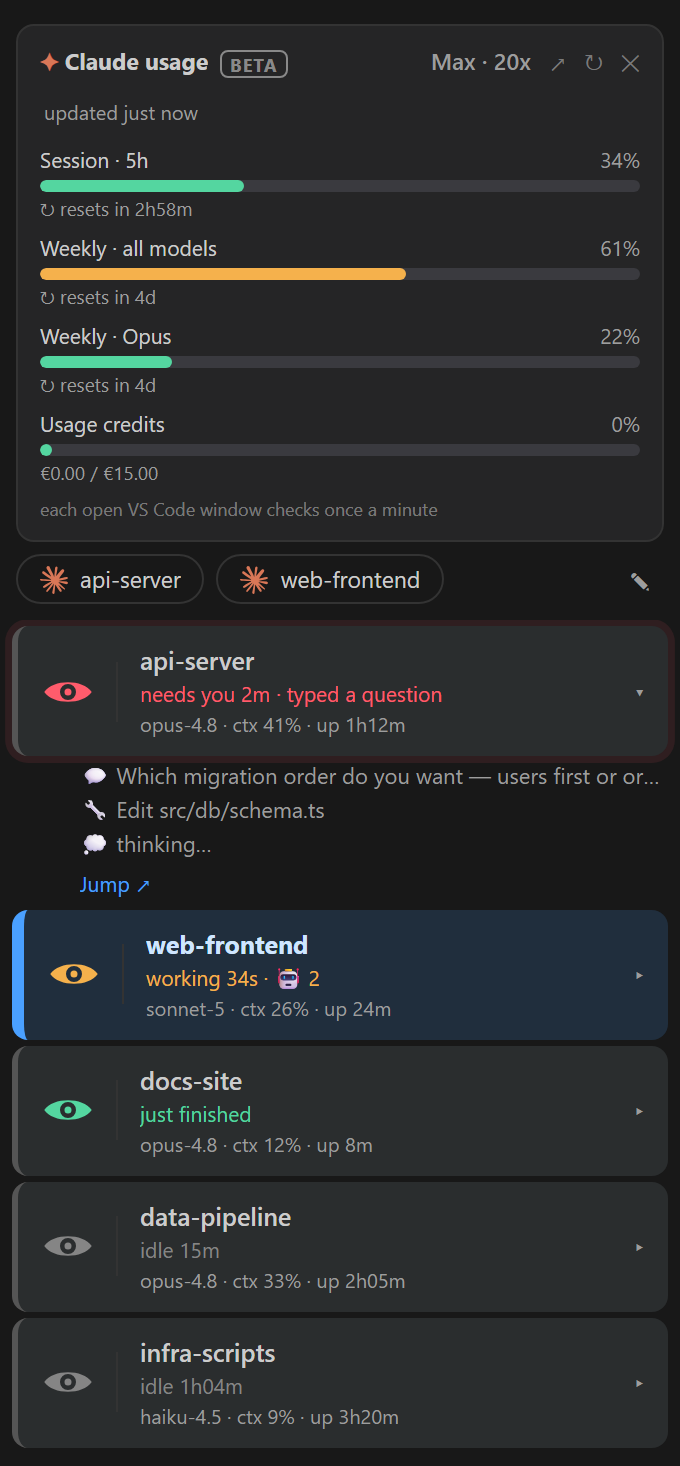
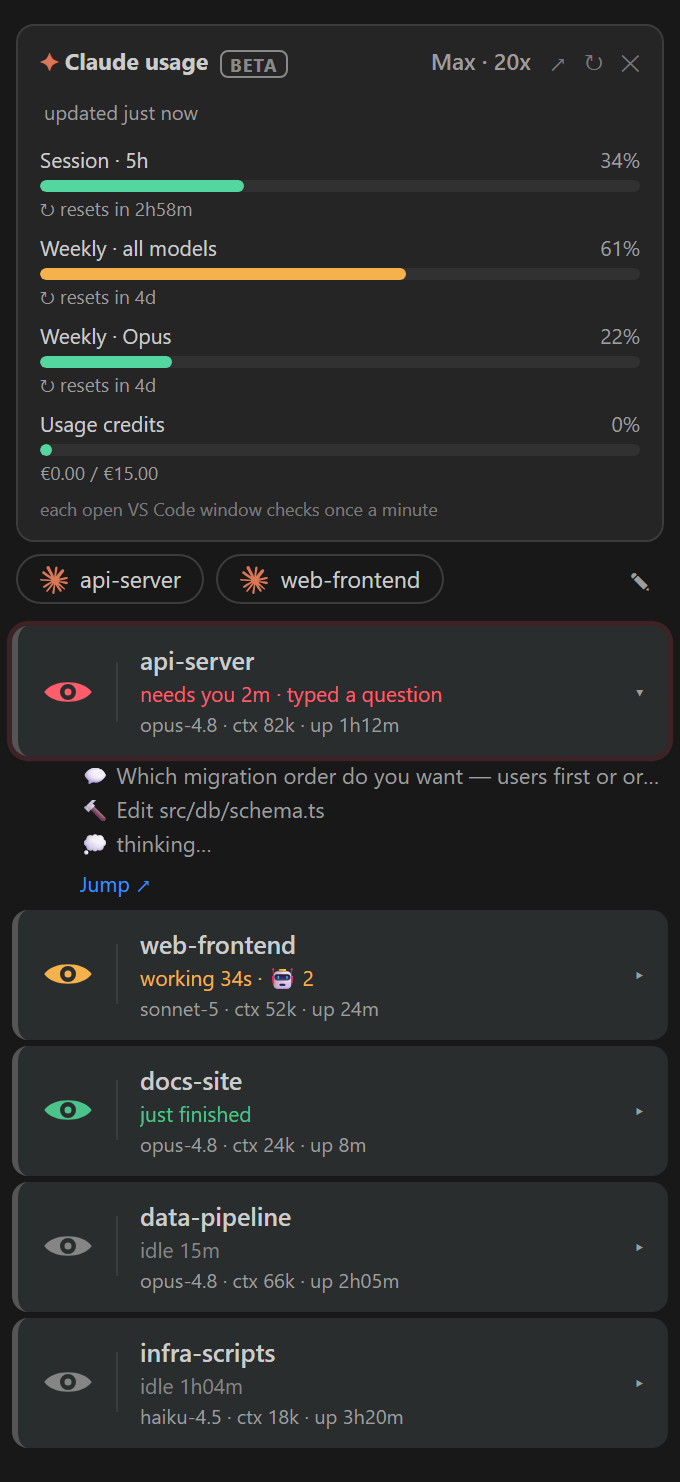
3.1.19: usage card works on macOS; ctx always shows real tokens
- The usage card read only ~/.claude/.credentials.json, which exists on
  Windows/Linux but not on macOS, where Claude Code stores the login in the
  encrypted Keychain - so every Mac user saw a permanent 'No Claude login
  found'. The Keychain (item 'Claude Code-credentials') is now read first on
  darwin, the file stays as the fallback everywhere (it is also the documented
  SSH/container workaround), and CLAUDE_CONFIG_DIR is honored. Keychain reads
  are cached 5 minutes; refresh and a rejected token both force a fresh read.
- Honest no-login wording on a Mac (names the Keychain).
- The ctx readout is always the real token amount, never a percent: the percent
  assumed a 200k window, and a 1M-context session at 138k rendered as '69%'.
- dev-harness: new ovl-creds-test.js (9 cases), stubs updated for the
  onDidChangeConfiguration listener, mac-wording render cases.
- Listing screenshot refreshed (absolute ctx format).

diff --git a/extension.js b/extension.js
@@ -453,7 +453,7 @@ function attachAndPost(agents, now, tdata) {
     s.sub = tt.statusText;          // .st renders sub verbatim - statusText replaces it
     s.metaText = s.bg ? ["background", tt.metaText].filter(Boolean).join(" · ") : tt.metaText;
     s.tooltipLines = tt.tooltipLines;
-    // the satellite screen renders one line per session
+    // the desk screen renders one line per session
     s.metaLine = tt.metaText ? tt.statusText + " · " + tt.metaText : tt.statusText;
   }
   // Re-sort now that `acked` is known (buildSessions can't see it): a seen-but-
@@ -818,12 +818,49 @@ function restoreUsageOn() {
   return usageEnabled() || usageEverEnabled();
 }
 
-// Read only the fields we need from the credentials file; never logged/echoed.
-function readClaudeCreds() {
+// Read only the fields we need from the credentials; never logged/echoed.
+// Where Claude Code keeps the login differs by OS (per the official docs):
+// macOS -> the encrypted Keychain (item "Claude Code-credentials"); Windows/Linux ->
+// .claude/.credentials.json in the home dir (or under CLAUDE_CONFIG_DIR when set).
+// So on a Mac the file normally does NOT exist and reading only it showed a permanent
+// "No Claude login found" to every macOS user (reported 2026-08-03). The Keychain is
+// tried first on darwin; the file stays as the fallback everywhere (it is also the
+// documented SSH/container workaround on Macs).
+function parseCreds(raw) {
+  const j = JSON.parse(raw);
+  const o = j.claudeAiOauth || j || {};   // accept wrapped ({claudeAiOauth:{...}}) and bare shapes
+  return { token: o.accessToken, subscriptionType: o.subscriptionType, rateLimitTier: o.rateLimitTier };
+}
+function readCredsFile() {
   try {
-    const o = JSON.parse(fs.readFileSync(path.join(os.homedir(), ".claude", ".credentials.json"), "utf8")).claudeAiOauth || {};
-    return { token: o.accessToken, subscriptionType: o.subscriptionType, rateLimitTier: o.rateLimitTier };
-  } catch (_) { return {}; }
+    const dir = process.env.CLAUDE_CONFIG_DIR || path.join(os.homedir(), ".claude");
+    const c = parseCreds(fs.readFileSync(path.join(dir, ".credentials.json"), "utf8"));
+    return c.token ? c : null;
+  } catch (_) { return null; }
+}
+// Keychain reads spawn a `security` process, so the result is cached; a manual ↻ and a
+// rejected token (401) both bust the cache so a fresh login is picked up immediately.
+const KC_CACHE_MS = 300000;
+let _kcCreds = { at: 0, val: null };
+function bustCredsCache() { _kcCreds = { at: 0, val: null }; }
+function readCredsKeychain() {
+  return new Promise((resolve) => {
+    try {
+      cp.execFile("security", ["find-generic-password", "-s", "Claude Code-credentials", "-w"],
+        { encoding: "utf8", timeout: 4000, windowsHide: true }, (err, out) => {
+          if (err || !out) return resolve(null);
+          try { const c = parseCreds(out.trim()); resolve(c.token ? c : null); } catch (_) { resolve(null); }
+        });
+    } catch (_) { resolve(null); }
+  });
+}
+async function readClaudeCreds() {
+  if (process.platform === "darwin") {
+    if (_kcCreds.val && Date.now() - _kcCreds.at < KC_CACHE_MS) return _kcCreds.val;
+    const kc = await readCredsKeychain();
+    if (kc) { _kcCreds = { at: Date.now(), val: kc }; return kc; }
+  }
+  return readCredsFile() || {};
 }
 function httpsGetJson(url, headers) {
   return new Promise((resolve) => {
@@ -857,7 +894,7 @@ function nextUsageBackoff(headers) {
 }
 async function fetchUsage() {
   if (!_usageOn) { _usage = null; return; }
-  const c = readClaudeCreds();
+  const c = await readClaudeCreds();
   if (!c.token) { _usageState = "nologin"; postUsage(); scheduleNextUsage(USAGE_POLL_MS); return; }
   _usageState = _usage ? "checking" : "loading";   // brief feedback; keeps last-good rows visible
   postUsage();
@@ -879,6 +916,7 @@ async function fetchUsage() {
     if (_memento) { try { _memento.update(USAGE_LASTGOOD_KEY, { u, at: now }); _memento.update(USAGE_BAN_KEY, 0); } catch (_) {} }
     scheduleNextUsage(USAGE_POLL_MS);
   } else if (r.status === 401) {
+    bustCredsCache();                 // token rejected — re-read the Keychain next attempt (a re-login lands there)
     _usageState = "login";            // token invalid — last-good (if any) is shown greyed with this note
     scheduleNextUsage(USAGE_POLL_MS);
   } else {
@@ -1062,6 +1100,7 @@ class OverlordViewProvider {
         this.postUsage();
       } else if (msg.type === "usageRefresh") {
         _usageBackoff = 0;   // manual refresh: drop any backoff and check now
+        bustCredsCache();    // ...and re-read the login from scratch (Keychain included)
         fetchUsage();
       } else if (msg.type === "usageOpenSettings") {
         try { vscode.env.openExternal(vscode.Uri.parse("https://claude.ai/new#settings/usage")); } catch (_) {}
@@ -1115,7 +1154,7 @@ class OverlordViewProvider {
     if (this._view) this._view.webview.postMessage({ type: "sessions", sessions, error: error || null, note: note || null, launchers: launchersForWebview() });
   }
   postUsage() {
-    const meta = { state: _usageState, fetchedAt: _usageFetchedAt, nextAt: _usageNextAt, err: _usageErr };
+    const meta = { state: _usageState, fetchedAt: _usageFetchedAt, nextAt: _usageNextAt, err: _usageErr, mac: process.platform === "darwin" };
     // Suppress the invite if the user declined at THIS version, or ever enabled it.
     const hideInvite = usageDismissed() || usageEverEnabled();
     if (this._view) this._view.webview.postMessage({ type: "usage", usage: _usage, enabled: _usageOn, dismissed: hideInvite, meta });
@@ -1459,7 +1498,10 @@ class OverlordViewProvider {
     var ustate = meta && meta.state;
     var haveRows = usage && usage.rows && usage.rows.length;
     if(ustate==="nologin"){
-      var nn0=document.createElement("div"); nn0.className="unote"; nn0.textContent="No Claude login found — run any Claude Code session first.";
+      var nn0=document.createElement("div"); nn0.className="unote";
+      nn0.textContent=(meta&&meta.mac)
+        ? "No Claude login found — checked the macOS Keychain and ~/.claude. Log in in any Claude Code session, then hit ↻."
+        : "No Claude login found — run any Claude Code session first.";
       card.appendChild(nn0); usageEl.appendChild(card); return;
     }
     if(!haveRows){                                   // no numbers yet — first load, or failed before any success
@@ -1605,4 +1647,4 @@ function activate(context) {
 
 function deactivate() { if (timer) clearInterval(timer); if (_usageFetchTimer) clearTimeout(_usageFetchTimer); if (_usageTickTimer) clearInterval(_usageTickTimer); try { D.stop(); } catch (_) {} }
 
-module.exports = { activate, deactivate };
+module.exports = { activate, deactivate, _creds: { readClaudeCreds, parseCreds, bustCredsCache } };  // _creds: dev-harness only

diff --git a/dev-harness/ovl-creds-test.js b/dev-harness/ovl-creds-test.js
@@ -1,0 +1,81 @@
+// Proves the credential-source logic (3.1.19): macOS Keychain first with file
+// fallback, both Keychain JSON shapes accepted, CLAUDE_CONFIG_DIR honored, cache
+// busted by bustCredsCache(). Runs on any OS by faking process.platform and by
+// stubbing child_process.execFile on the SHARED module object (extension.js holds
+// a reference to the same object, so the patch reaches it).
+const Module = require('module'); const origLoad = Module._load;
+const path = require('path'); const fs = require('fs'); const os = require('os');
+
+// vscode stub (minimal — we never activate, only require the module)
+const vscode = { workspace:{ getConfiguration(){ return { get:()=>undefined }; } } };
+Module._load = function(request){ if(request==='vscode') return vscode; return origLoad.apply(this, arguments); };
+
+// Stub execFile BEFORE loading the extension is not needed (it captures the module
+// object, not the function) — but patch before first use to be safe.
+const cp = require('child_process');
+const realExecFile = cp.execFile;
+let secOut = null;      // what the fake `security` prints (null => simulate failure)
+let secCalls = 0;
+cp.execFile = function(cmd, args, opts, cb){
+  if(cmd === 'security'){ secCalls++; return setImmediate(()=> cb(secOut===null ? new Error('not found') : null, secOut)); }
+  return realExecFile.apply(this, arguments);
+};
+
+const ext = require(path.join(__dirname, '..', 'extension.js'));
+const { readClaudeCreds, parseCreds, bustCredsCache } = ext._creds;
+
+let pass=0, fail=0;
+function ok(cond, name){ if(cond){pass++;} else {fail++; console.log('FAIL:', name);} }
+
+// A scratch config dir with a known credentials file, used via CLAUDE_CONFIG_DIR
+const tmp = fs.mkdtempSync(path.join(os.tmpdir(), 'ovl-creds-'));
+fs.writeFileSync(path.join(tmp, '.credentials.json'),
+  JSON.stringify({ claudeAiOauth: { accessToken:'FILE_TOKEN', subscriptionType:'max', rateLimitTier:'t' } }));
+
+const realPlatform = process.platform;
+function setPlatform(p){ Object.defineProperty(process, 'platform', { value:p }); }
+
+(async()=>{
+  // 1-2. parseCreds accepts both shapes
+  ok(parseCreds('{"claudeAiOauth":{"accessToken":"A","subscriptionType":"max"}}').token==='A', '1 wrapped shape');
+  ok(parseCreds('{"accessToken":"B","subscriptionType":"max"}').token==='B', '2 bare shape');
+
+  // 3. darwin: keychain wins (wrapped shape)
+  setPlatform('darwin'); bustCredsCache(); secOut='{"claudeAiOauth":{"accessToken":"KC1"}}'; secCalls=0;
+  ok((await readClaudeCreds()).token==='KC1', '3 keychain wrapped');
+
+  // 4. cache: second read does NOT spawn security again
+  const before=secCalls; await readClaudeCreds();
+  ok(secCalls===before, '4 cached (no re-exec)');
+
+  // 5. bustCredsCache forces a re-exec and picks up the new value (bare shape)
+  bustCredsCache(); secOut='{"accessToken":"KC2"}';
+  ok((await readClaudeCreds()).token==='KC2' && secCalls===before+1, '5 bust + bare shape');
+
+  // 6. darwin + keychain failure -> file fallback via CLAUDE_CONFIG_DIR
+  bustCredsCache(); secOut=null; process.env.CLAUDE_CONFIG_DIR=tmp;
+  ok((await readClaudeCreds()).token==='FILE_TOKEN', '6 darwin fallback to file');
+
+  // 7. keychain output that is garbage -> file fallback, no throw
+  bustCredsCache(); secOut='not json at all';
+  ok((await readClaudeCreds()).token==='FILE_TOKEN', '7 garbage keychain -> file');
+
+  // 8. non-darwin: security never consulted, file only
+  setPlatform('linux'); bustCredsCache(); secOut='{"accessToken":"KC3"}'; secCalls=0;
+  const r8=await readClaudeCreds();
+  ok(r8.token==='FILE_TOKEN' && secCalls===0, '8 non-darwin skips keychain');
+
+  // 9. nothing anywhere -> {} (the nologin state), never a throw
+  delete process.env.CLAUDE_CONFIG_DIR;
+  // point HOME at an empty dir so the real ~/.claude file (if any) is not read
+  const empty = fs.mkdtempSync(path.join(os.tmpdir(), 'ovl-empty-'));
+  process.env.CLAUDE_CONFIG_DIR = empty;
+  bustCredsCache();
+  const r9=await readClaudeCreds();
+  ok(r9 && !r9.token, '9 no creds anywhere -> empty object');
+
+  setPlatform(realPlatform);
+  fs.rmSync(tmp,{recursive:true,force:true}); fs.rmSync(empty,{recursive:true,force:true});
+  console.log(`creds: ${pass} passed, ${fail} failed`);
+  process.exit(fail?1:0);
+})();

diff --git a/test-agents.js b/test-agents.js
@@ -484,13 +484,15 @@ t("statusText: segments without elapsed still lead with state word", () => {
   assert.strictEqual(r.statusText, "working");
   assert.strictEqual(r.metaText, "fable-5");
 });
-t("metaText: ctx% + uptime; over-window shows real used amount", () => {
+t("metaText: ctx always absolute (a % would need the true window, unknowable for 1M models)", () => {
   const r = A.telemetryText(sess("working", { startedAt: NOW - (3 * 60 + 12) * 60000 }), tele({ ctxTokens: 124000 }), NOW);
-  assert.strictEqual(r.metaText, "ctx 62% · up 3h12m");
+  assert.strictEqual(r.metaText, "ctx 124k · up 3h12m");
   const c = A.telemetryText(sess("working"), tele({ ctxTokens: 247000 }), NOW);
   assert.strictEqual(c.metaText, "ctx 247k");
   const tt = A.telemetryText(sess("working"), tele({ ctxTokens: 247000 }), NOW);
   assert(tt.tooltipLines.some((l) => l === "context: 247k tokens used"));
+  const small = A.telemetryText(sess("working"), tele({ ctxTokens: 124000 }), NOW);
+  assert(small.tooltipLines.some((l) => l === "context: 124k tokens used"));
 });
 t("metaText: uptime alone works without transcript", () => {
   const r = A.telemetryText(sess("idle", { startedAt: NOW - 60000 }), null, NOW);
@@ -503,7 +505,7 @@ t("tooltipLines include dir when cwd known", () => {
 t("tooltipLines are static (model id, tokens, agents, started)", () => {
   const r = A.telemetryText(sess("working", { startedAt: NOW - 1000 }), tele({ model: "claude-fable-5", ctxTokens: 124000, agentsRunning: 1 }), NOW);
   assert(r.tooltipLines.some((l) => l.includes("claude-fable-5")));
-  assert(r.tooltipLines.some((l) => l.includes("124k/200k")));
+  assert(r.tooltipLines.some((l) => l === "context: 124k tokens used"));   // no invented /200k denominator (3.1.19)
   assert(r.tooltipLines.some((l) => l.includes("subagents: 1")));
   assert(r.tooltipLines.some((l) => l.startsWith("started: ")));
   assert(!r.tooltipLines.some((l) => l.includes("up ")));   // no ticking uptime in tooltip

diff --git a/agents.js b/agents.js
@@ -607,23 +607,18 @@ function telemetryText(session, tele, nowMs) {
   if (folder) metaSegs.push(folder);
   const mb = modelBadge(t.model);
   if (mb) metaSegs.push(mb);
-  // Over the nominal window (cache-read counts can exceed 200k after context
-  // editing/compaction): a percentage would lie, so show the real used amount.
-  if (t.ctxTokens != null) {
-    metaSegs.push(t.ctxTokens > CTX_WINDOW
-      ? "ctx " + Math.round(t.ctxTokens / 1000) + "k"
-      : "ctx " + Math.round((t.ctxTokens / CTX_WINDOW) * 100) + "%");
-  }
+  // Always the real used amount ("ctx 138k"), never a percent. A percent needs
+  // the session's TRUE window, which is not knowable here: a 1M-context model
+  // reports the same shortened name as the 200k one, so 138k rendered as "69%"
+  // of an assumed 200k window read as nearly-full on a session at ~14% (2026-08-03).
+  if (t.ctxTokens) metaSegs.push("ctx " + fmtTokens(t.ctxTokens));
   if (session.startedAt != null) { const up = fmtElapsed(nowMs - session.startedAt); if (up) metaSegs.push("up " + up); }
   const metaText = metaSegs.length ? metaSegs.join(" · ") : null;
 
   const tooltipLines = [];
   if (t.model) tooltipLines.push("model: " + t.model);
-  if (t.ctxTokens != null) {
-    tooltipLines.push(t.ctxTokens > CTX_WINDOW
-      ? "context: " + Math.round(t.ctxTokens / 1000) + "k tokens used"
-      : "context: " + Math.round(t.ctxTokens / 1000) + "k/" + Math.round(CTX_WINDOW / 1000) + "k tokens");
-  }
+  // Same reason as the meta line: "138k/200k" invents a denominator on 1M sessions.
+  if (t.ctxTokens) tooltipLines.push("context: " + fmtTokens(t.ctxTokens) + " tokens used");
   if (t.agentsRunning > 0) tooltipLines.push("subagents: " + t.agentsRunning);
   if (session.startedAt != null) tooltipLines.push("started: " + new Date(session.startedAt).toLocaleString());
   if (session.cwd) tooltipLines.push("dir: " + session.cwd);

diff --git a/dev-harness/ovl-e2e.js b/dev-harness/ovl-e2e.js
@@ -4,7 +4,7 @@ let posted=[];
 const cfgDefaults={ claudePath:'claude', pollMs:2500, sound:false, notifications:false, doneFlashSeconds:12, detectTypedQuestions:true, 'device.enabled':false, defaultDetail:'full', feedEvents:6, 'launcher1.command':'yolo', 'launcher1.name':'CoS', 'launcher1.icon':'claude' };
 let cookedHtml='';
 const fakeView={ webview:{ options:{}, set html(v){ cookedHtml=v; }, get html(){return cookedHtml;}, onDidReceiveMessage(){}, postMessage(m){ posted.push(m); } }, badge:undefined };
-const vscode={ workspace:{ getConfiguration(){ return { get:(k)=>cfgDefaults[k] }; } },
+const vscode={ workspace:{ getConfiguration(){ return { get:(k)=>cfgDefaults[k] }; }, onDidChangeConfiguration(){ return {dispose(){}}; } },
   window:{ createStatusBarItem(){ return {text:'',show(){},dispose(){}}; }, registerWebviewViewProvider(i,p){ vscode._p=p; return {dispose(){}}; }, terminals:[], showWarningMessage(){return{then(){}};}, showInformationMessage(){return{then(){}};}, showQuickPick(){return Promise.resolve(null);}, onDidChangeActiveTerminal(){return{dispose(){}};}, activeTerminal:undefined, tabGroups:{ onDidChangeTabs(){return{dispose(){}};}, all:[] }, createTerminal(){ return { name:'t', processId:Promise.resolve(0), show(){}, sendText(){}, dispose(){} }; }, createWebviewPanel(){ return { webview:{ options:{}, html:'', onDidReceiveMessage(){return{dispose(){}};}, postMessage(){} }, onDidDispose(){return{dispose(){}};}, reveal(){}, dispose(){} }; } },
   StatusBarAlignment:{Right:2}, ThemeColor:function(){}, ConfigurationTarget:{Global:1}, commands:{ registerCommand(){ return {dispose(){}}; }, executeCommand(){ return Promise.resolve(); } } };
 Module._load=function(r){ if(r==='vscode') return vscode; return origLoad.apply(this,arguments); };

diff --git a/dev-harness/ovl-usage-test.js b/dev-harness/ovl-usage-test.js
@@ -76,6 +76,13 @@ ok(rows()===3,'6 rows kept on 401'); ok(has('login expired'),'6 login note');
 post(null,true,false,{state:'nologin',fetchedAt:0,nextAt:0});
 ok(rows()===0,'7 no rows'); ok(has('No Claude login found'),'7 nologin message');
 
+// 7a. nologin on a Mac: the message names the Keychain (3.1.19 — the file-only wording
+// sent macOS users in circles, since their login lives in the Keychain, not ~/.claude)
+post(null,true,false,{state:'nologin',fetchedAt:0,nextAt:0,mac:true});
+ok(has('No Claude login found') && has('Keychain'),'7a mac nologin names the Keychain');
+post(null,true,false,{state:'nologin',fetchedAt:0,nextAt:0,mac:false});
+ok(!has('Keychain'),'7a non-mac keeps the original wording');
+
 // 7b. credits row renders when usage.credits.enabled, and not when absent
 { const withCredits={ ...good, credits:{ enabled:true, label:"Usage credits", percent:0, severity:"normal", detail:"€0.00 / €15.00" } };
   post(withCredits,true,false,{state:'ok',fetchedAt:now,nextAt:now+60000});

diff --git a/dev-harness/ovl-activate-test.js b/dev-harness/ovl-activate-test.js
@@ -4,7 +4,7 @@ let posted=[];
 const cfgDefaults={ claudePath:'claude', pollMs:2500, sound:false, notifications:false, doneFlashSeconds:12, detectTypedQuestions:true, 'device.enabled':false, defaultDetail:'full', feedEvents:6 };
 const fakeView={ webview:{ options:{}, set html(v){}, get html(){return '';}, onDidReceiveMessage(){}, postMessage(m){ posted.push(m); } }, badge:undefined };
 const vscode={
-  workspace:{ getConfiguration(){ return { get:(k)=> cfgDefaults[k] }; } },
+  workspace:{ getConfiguration(){ return { get:(k)=> cfgDefaults[k] }; }, onDidChangeConfiguration(){ return { dispose(){} }; } },
   window:{
     createStatusBarItem(){ return { text:'',tooltip:'',backgroundColor:undefined,command:'',show(){},dispose(){} }; },
     registerWebviewViewProvider(id,prov){ vscode._provider=prov; return { dispose(){} }; },

diff --git a/dev-harness/vscode-stub.js b/dev-harness/vscode-stub.js
@@ -15,6 +15,7 @@ function makeStub(overrides = {}) {
   const vscode = {
     workspace: {
       getConfiguration() { return { get: (k) => (k === "device.enabled" ? false : undefined), update: async () => {} }; },
+      onDidChangeConfiguration: () => disposable,   // 3.1.12+ listens for overlord.usage/device changes
       workspaceFolders: [],
     },
     window: {

diff --git a/README.md b/README.md
@@ -27,7 +27,7 @@ A live board of your [Claude Code](https://claude.com/claude-code) sessions, rig
 - **A soft notification sound** when a session needs your answer. The left-panel cards are the visual channel (no pop-ups). Once you've looked at a waiting session — jumped to it, focused its terminal, or opened its transcript — its card stops pulsing and greys out but keeps its "needs you" text, and sinks below your working sessions until it needs you again. This "seen" state **persists across restarts** (v3.1.11), and re-blinks only if that session asks something new.
 - **Click any eye** → jumps straight to that session's terminal (labelled with the terminal's tab name). For a **background/headless session** (no terminal of its own), the eye opens that session's transcript instead.
 - **Live activity feed** (v3) — click anywhere on a card to expand it: recent tool calls paired with their results (failures marked ✗), 💭 thinking, and the 💬 latest message. The eye jumps to the terminal; hovering shows a full-detail tooltip. `overlord.defaultDetail: compact | full | remember` (defaults to `remember`, which keeps each card's collapsed/expanded state across reloads and restarts; new cards still start expanded).
-- **Session telemetry** (v3) — `state + elapsed · model · subagents` on the status line, `ctx usage · uptime` beneath it. Context past the nominal window shows the real token count instead of a misleading percentage.
+- **Session telemetry** (v3) — `state + elapsed · model · subagents` on the status line, `ctx usage · uptime` beneath it. Context is always the real token count (`ctx 138k`), never a percentage — a percent would need the session's true window, which varies by model (200k vs 1M) and isn't knowable from outside.
 - **Launch pills** (v3) — up to 3 configurable buttons above the board. Each opens an editor-area terminal in its own folder and types its own command (e.g. `claude`, or your own alias). Configure via the ✎ pencil; slots ship empty; optional auto-launch on VS Code start.
 - **"You are here"** (v2.2) — the card whose session runs in your focused terminal lights up with a thick blue bar, tint, and bright name, so you always know which session you're typing into (it stands out even when that card has been greyed as "seen").
 - **Claude usage** (v3.1.7, opt-in) — a card pinned at the top showing your live session (5h) and weekly limits, including per-model buckets, exactly like the Claude settings Usage panel. Colours by severity, with reset countdowns. If you've turned on **Usage credits** (pay-as-you-go) in Claude settings, it also shows a credits row (spend vs. monthly limit); it stays hidden otherwise. Off by default; enable it from the invite card on the board or via `overlord.usage`. When on it reads your local Claude login and does one plain usage read a minute (0 tokens, not an AI call) — see Privacy below.

diff --git a/CHANGELOG.md b/CHANGELOG.md
@@ -1,5 +1,10 @@
 # Changelog
 
+## 3.1.19 — 2026-08-03
+- **Fix: the usage card now works on macOS.** On a Mac, Claude Code stores your login in the encrypted macOS **Keychain** — not in `~/.claude/.credentials.json`, which is where the card was looking (that file only exists on Windows/Linux). So every Mac user saw a permanent "No Claude login found — run any Claude Code session first", and neither logging in nor ↻ could ever fix it. The card now reads the Keychain first on macOS (item `Claude Code-credentials`, the same one Claude Code itself uses), with the file kept as a fallback everywhere — the file is also the documented workaround for SSH/container setups on Macs, so both arrangements work. `CLAUDE_CONFIG_DIR` is honored too, on every OS. Keychain reads are cached for 5 minutes; ↻ and a rejected token both force a fresh read, so a re-login is picked up immediately. Windows/Linux behavior is unchanged.
+- **Honest "no login" wording on a Mac.** The old advice ("run any Claude Code session first") sent macOS users in circles. On a Mac it now says what was actually checked: the Keychain and `~/.claude`.
+- **The card's context readout is now always the real amount ("ctx 138k"), never a percent.** The percent was computed against an assumed 200k window, but a session on a 1M-context model reports the same model name — so 138k used showed as "ctx 69%" (nearly full) on a session actually at ~14%. An absolute number can't lie about a window it doesn't claim to know; the tooltip's "138k/200k" denominator is gone for the same reason. Sessions genuinely near the limit still read exactly as before ("ctx 247k").
+
 ## 3.1.18 — 2026-07-20
 - **Fix: a session no longer blinks "awaiting your reply" over the word "approved".** The go-ahead detector matched past-tense "approved … and I'll" (e.g. "the plan is approved and I'll start it") as if it were an approval request. That's a statement, not a question, so the card wrongly turned red. It now only matches the imperative forms actually aimed at you (confirm / approve / say go / sign off); real go-ahead asks still flag correctly.
 - **The launch pills stay put when you scroll.** The pills row is now pinned together with the usage card at the top of the panel, instead of sliding up and disappearing underneath it.
